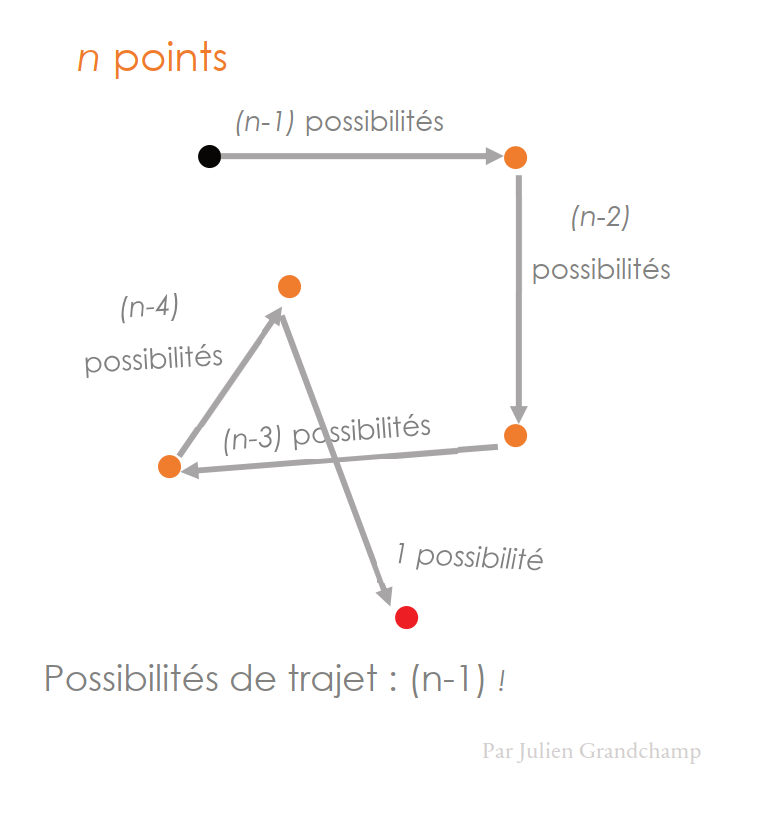
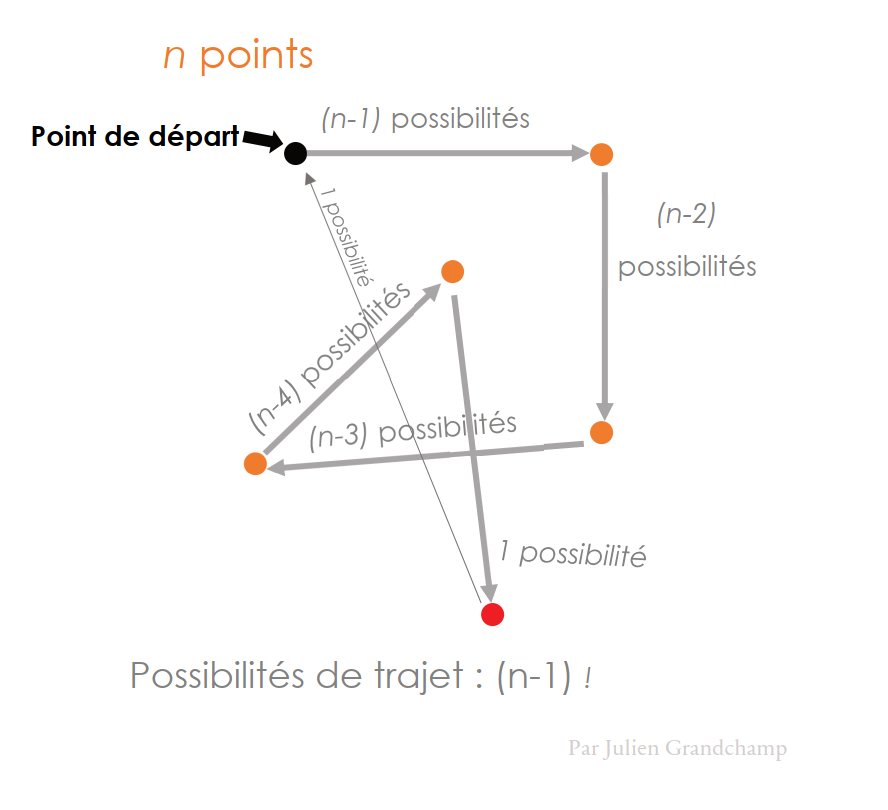
Séparation du chapitre 2, amélioration des schémas

diff --git a/source/chapitre-03.md b/source/chapitre-03.md
@@ -1,7 +1,144 @@
-# Méthodes de résolution approchée
+# Méthode de résolution exacte par la PSE
 
-## Algorithme de Prim (du plus proche voisin)
+## Rappel du problème
+William Rowan Hamilton posa l’une des première fois le problème du voyageur de commerce dès 1859 avec l’énoncé suivant : 
 
-## Algorithme de Christofides ?
+> « Un voyageur de commerce doit visiter une et une seule fois un nombre fini de villes et revenir à son point d’origine. Trouvez l’ordre de visite des villes qui minimise la distance totale parcourue par le voyageur ».
 
-## Algorithme gloutons (méthode par insertion)
+## Introduction
+Cherchons à présent une méthode de résolution exacte un peu moins naïve et plus efficace. Pour cela, nous allons utiliser la **Procédure par Séparation et Évaluation**, abrégée par les initiales **PSE** et nommé **branch & bound** en anglais. C’est une méthode qui repose sur le parcours d’un arbre de recherche auquel on va couper la simulation dans certaines branches lorsqu’il est évident que ce n’est pas le chemin optimal. 
+
+## Notions de base
+Avant cela, il est important de définir certains termes qui vont avoir leur importance dans l’application de cette méthode :
+1.	Un **arbre de recherche** est un schéma représentant toutes les solutions possibles sous la forme d’embranchements. Un exemple de cet arbre se situe plus bas.
+2.	Pour cette méthode, il est aussi important de définir les bornes inférieures et supérieures.
+
+    Une **borne inférieure** est une valeur qui est égale ou inférieure à la valeur de la meilleure solution possible. Dans le cas présent, il suffit pour l’obtenir d’additionner au trajet déjà effectué le poids des $N$ distances les plus proches entre deux villes. Même si cette solution a une grande probabilité de ne pas être réalisable, la valeur de la solution optimale ne pourra pas être plus petite que la borne inférieure. 
+
+    La **borne supérieure**, quant à elle, est une limite qu'aucune solution optimale ne pourra jamais dépasser. Dans ce cas, cette valeur est un trajet quelconque, car si on prend la mauvaise solution on obtient une valeur supérieure à celle qu’on recherche, et dans le cas généralement extrêmement rare où l’on obtient la bonne réponse, la bonne réponse n’est pas en-dessous de la borne supérieure choisie. Pour obtenir des résultats moins variables, on peut aussi utiliser des algorithmes approchés se basant sur des approximations.
+
+
+## Formation d'un arbre de recherche
+Posons la situation suivante: 
+
+
+```{figure} figures/schema_4.png
+---
+align: center
+width: 50%
+---
+*Admettons que nous souhaitons traverser de la manière la plus optimale possible les quatre villes affichées.*
+```
+
+
+### Etape par étape
+Pour commencer à créer un arbre de recherche, nous devons tout d'abord définir une ville de départ.
+
+
+```{figure} figures/schema_4a.png
+---
+align: center
+width: 10%
+---
+*Nous définissons arbitrairement le noeud initial, car cela n'influence pas la longueur du trajet.*
+```
+
+
+Nous appelons cette ville le **nœud initial**. Ensuite, il faut explorer tous les trajets possibles. Pour cela, nous dessinons l'arbre de la manière suivante:
+
+
+```{figure} figures/schema_4b.png
+---
+align: center
+width: 40%
+---
+*Sont affichées les destinations restantes possibles.*
+```
+
+
+Cela veut dire qu'à partir de la ville $1$, nous pouvons nous diriger vers la ville $2$, $3$ ou $4$. À partir de là, pour respecter la consigne du problème du voyageur de commerce, nous pouvons uniquement nous diriger vers les noeuds($=$ villes) sur lesquelles nous ne sommes pas déjà passés. Ainsi:
+
+
+```{figure} figures/schema_4c.png
+---
+align: center
+width: 50%
+---
+*Nous continuons à procéder de la même manière pour chaque noeud.*
+```
+
+
+Nous poursuivons le même processus jusqu'à ce que nous ayons visité chacune des villes. Nous obtenons enfin:
+
+
+```{figure} figures/schema_4d.png
+---
+align: center
+width: 50%
+---
+*Arbre de recherche complété.*
+```
+
+
+Afin de respecter les consignes du problème de voyageur de commerce, il est nécessaire de prendre encore en compte le trajet du retour afin d'avoir comme point d'arrivée le noeud initial.
+
+### En résumé
+Pour conclure, nous pouvons résumer l'arbre de la manière suivante:
+
+Nous avons les villes $1$, $2$, $3$ et $4$. Nous partons d'une ville, définie provisoirement par $1$ (la longueur d'un trajet est aucunement influencée par le point de départ), que nous nommons le **nœud initial**. Nous avons alors trois possibilités de trajet, menant chacun à une des trois trois villes qui n'ont pas été visitée. Ces possibilités constituent les trois embranchements initiaux de l’arbre. Chacun des embranchements se sépare à son tour en deux embranchements pour les deux villes restantes (donc non-visitée), formant des nœuds possédant à nouveau des embranchements jusqu’à ce que cela ne soit plus possible. 
+
+
+```{figure} figures/schema_5.png
+---
+align: center
+width: 80%
+---
+*Voici à quoi ressemble un arbre de recherche fini.*
+```
+
+
+## Réaliser la PSE
+À présent que cet arbre de recherche est formé et compris, il nous faut trouver le trajet optimal. C'est là que la PSE intervient.
+
+### Etapes à réaliser
+Le principe de la PSE est de couper l’exploration de l’arbre à la hauteur de certains nœuds afin de réduire la quantité nécessaire de calculs pour trouver la réponse. Pour savoir quand couper la simulation, nous procédons de la manière suivante :
+1. Calculer la borne supérieure en suivant un chemin au hasard ou par un algorithme approché. Cette borne est fixe, mais peut toutefois être actualisée lorsqu'un trajet plus court que ladite borne a été décelé.
+2. Explorer toutes les options pour le prochain embranchement, en calculant la borne inférieure pour chacune de ces options. Pour cela, on rajoute à la distance déjà parcourue les $x$ distances manquantes les plus courtes de l'embranchement.
+3. Couper les embranchements dont la borne inférieure est supérieure ou égale à la borne supérieure.
+4. Répéter les étapes 2, 3 et 4 jusqu'à ce que tous les embranchements soient complétés.
+5. Trouver le chemin le plus court parmi les configurations restantes.
+
+Cette méthode permet ainsi d'augmenter la rapidité des calculs, car permet de couper les branches inutiles à explorer. Cependant, ce n'est pas une méthode sufisamment efficace pour permettre de calculer le trajet optimal comportant le passage au travers d'un grand nombre de villes.
+
+### Exemple
+
+#### Situation initiale
+Prenons les 3 villes suivantes ainsi que la distance les séparant:
+
+
+```{figure} figures/schema_6.png
+---
+align: center
+width: 70%
+---
+*Les points oranges représentes les villes à travers lesquels nous souhaitons passer.*
+```
+
+#### Création de l'arbre de recherche
+
+On peut alors constuire l'arbre de recherche suivant:
+
+
+```{figure} figures/schema_7.png
+---
+align: center
+width: 60%
+---
+*L'arbre de recherche correspondant à la situation ci-dessus posée.*
+```
+
+
+Dans cette notation, les chiffres en gras représentent la distance (souvent nommé "coût") entre deux noeuds. À partir de là, nous pouvons suivre la procédure décrite plus haut.
+
+#### Borne supérieure
+Il faut tout d'abord calculer la borne supérieure. Pour Cela,

diff --git a/source/chapitre-02.md b/source/chapitre-02.md
@@ -1,4 +1,4 @@
-# Résolution exacte
+# Résolution exacte naïve
 
 ## Rappel du problème
 William Rowan Hamilton posa l’une des première fois le problème du voyageur de commerce dès 1859 avec l’énoncé suivant : 
@@ -24,7 +24,7 @@ width: 50%
 
 
 2.	Il existe alors $n!$ chemins possibles, car on ne peut passer qu’une seule fois dans chaque ville. 
-3.	Le point de départ n’influençant pas la longueur totale du trajet, on se retrouve avec $(n-1)!$ chemins différents. 
+3.	Le point de départ n’influençant pas la longueur totale du trajet, on se retrouve avec $(n-1)!$ chemins différents. À noter que le trajet consistant à retourner au point de départ étant unique et obligatoire, nous ne le prenons pas en compte en tant que possibilité de chemin ici.
 
 
 ```{figure} figures/schema_2.png
@@ -56,132 +56,3 @@ Pour illustrer cela par un autre exemple, admettons qu’un ordinateur est capab
 
 
 
-## Procédure par Séparation et Évaluation (PSE)
-Cherchons à présent une méthode de résolution exacte un peu moins naïve et plus efficace. Pour cela, nous allons utiliser la **Procédure par Séparation et Évaluation**, abrégée par les initiales **PSE**. C’est une méthode qui repose sur le parcours d’un arbre de recherche auquel on va couper la simulation dans certaines branches lorsqu’il est évident que ce n’est pas le chemin optimal. 
-
-### Différentes définitions
-Avant cela, il est important de définir certains termes qui vont avoir leur importance dans l’application de cette méthode :
-1.	Un **arbre de recherche** est un schéma représentant toutes les solutions possibles sous la forme d’embranchements. Un exemple de cet arbre se situe plus bas.
-2.	Pour cette méthode, il est aussi important de définir les bornes inférieures et supérieures.
-
-    Une **borne inférieure** est une valeur qui est égale ou inférieure à la valeur de la meilleure solution possible. Dans le cas présent, il suffit pour l’obtenir d’additionner au trajet déjà effectué le poids des $N$ distances les plus proches entre deux villes. Même si cette solution a une grande probabilité de ne pas être réalisable, la valeur de la solution optimale ne pourra pas être plus petite que la borne inférieure. 
-
-    La **borne supérieure**, quant à elle, est une limite qu'aucune solution optimale ne pourra jamais dépasser. Dans ce cas, cette valeur est un trajet quelconque, car si on prend la mauvaise solution on obtient une valeur supérieure à celle qu’on recherche, et dans le cas généralement extrêmement rare où l’on obtient la bonne réponse, la bonne réponse n’est pas en-dessous de la borne supérieure choisie. Pour obtenir des résultats moins variables, on peut aussi utiliser des algorithmes approchés se basant sur des approximations.
-
-
-### Formation d'un arbre de recherche
-Posons la situation suivante: 
-
-
-```{figure} figures/schema_4.png
----
-align: center
-width: 50%
----
-*Admettons que nous souhaitons traverser de la manière la plus optimale possible les quatre villes affichées.*
-```
-
-
-#### Etape par étape
-Pour commencer à créer un arbre de recherche, nous devons tout d'abord définir une ville de départ.
-
-
-```{figure} figures/schema_4a.png
----
-align: center
-width: 10%
----
-*Nous définissons arbitrairement le noeud initial, car cela n'influence pas la longueur du trajet.*
-```
-
-
-Nous appelons cette ville le **nœud initial**. Ensuite, il faut explorer tous les trajets possibles. Pour cela, nous dessinons l'arbre de la manière suivante:
-
-
-```{figure} figures/schema_4b.png
----
-align: center
-width: 40%
----
-*Sont affichées les destinations restantes possibles.*
-```
-
-
-Cela veut dire qu'à partir de la ville $1$, nous pouvons nous diriger vers la ville $2$, $3$ ou $4$. À partir de là, pour respecter la consigne du problème du voyageur de commerce, nous pouvons uniquement nous diriger vers les noeuds($=$ villes) sur lesquelles nous ne sommes pas déjà passés. Ainsi:
-
-
-```{figure} figures/schema_4c.png
----
-align: center
-width: 50%
----
-*Nous continuons à procéder de la même manière pour chaque noeud.*
-```
-
-
-Nous poursuivons le même processus jusqu'à ce que nous ayons visité chacune des villes. Nous obtenons enfin:
-
-
-```{figure} figures/schema_4d.png
----
-align: center
-width: 50%
----
-*Arbre de recherche complété.*
-```
-
-
-#### En résumé
-Pour conclure, nous pouvons résumer l'arbre de la manière suivante:
-
-Nous avons les villes $1$, $2$, $3$ et $4$. Nous partons d'une ville, définie provisoirement par $1$ (la longueur d'un trajet est aucunement influencée par le point de départ), que nous nommons le **nœud initial**. Nous avons alors trois possibilités de trajet, menant chacun à une des trois trois villes qui n'ont pas été visitée. Ces possibilités constituent les trois embranchements initiaux de l’arbre. Chacun des embranchements se sépare à son tour en deux embranchements pour les deux villes restantes (donc non-visitée), formant des nœuds possédant à nouveau des embranchements jusqu’à ce que cela ne soit plus possible. 
-
-
-```{figure} figures/schema_5.png
----
-align: center
-width: 80%
----
-*Voici à quoi ressemble un arbre de recherche fini.*
-```
-
-
-### Réaliser la PSE
-À présent que cet arbre de recherche est formé et compris, il nous faut trouver le trajet optimal. C'est là que la PSE intervient.
-
-#### Etapes à réaliser
-Le principe de la PSE est de couper l’exploration de l’arbre à la hauteur de certains nœuds afin de réduire la quantité nécessaire de calculs pour trouver la réponse. Pour savoir quand couper la simulation, nous procédons de la manière suivante :
-1. Calculer la borne supérieure en suivant un chemin au hasard ou par un algorithme approché. Cette borne est fixe, mais peut toutefois être actualisée lorsqu'un trajet plus court que ladite borne a été décelé.
-2. Explorer toutes les options pour le prochain embranchement, en calculant la borne inférieure pour chacune de ces options. Pour cela, on rajoute à la distance déjà parcourue les $x$ distances manquantes les plus courtes de l'embranchement.
-3. Couper les embranchements dont la borne inférieure est supérieure ou égale à la borne supérieure.
-4. Répéter les étapes 2, 3 et 4 jusqu'à ce que tous les embranchements soient complétés.
-5. Trouver le chemin le plus court parmi les configurations restantes.
-
-Cette méthode permet ainsi d'augmenter la rapidité des calculs, car permet de couper les branches inutiles à explorer. Cependant, ce n'est pas une méthode sufisamment efficace pour permettre de calculer le trajet optimal comportant le passage au travers d'un grand nombre de villes.
-
-#### Exemple
-Prenons les 3 villes suivantes ainsi que la distance les séparant:
-
-
-```{figure} figures/schema_6.png
----
-align: center
-width: 70%
----
-*Les points oranges représentes les villes à travers lesquels nous souhaitons passer.*
-```
-
-
-On peut alors constuire l'arbre de recherche suivant:
-
-
-```{figure} figures/schema_7.png
----
-align: center
-width: 60%
----
-*L'arbre de recherche correspondant à la situation ci-dessus posée.*
-```
-
-
-Dans cette notation, les chiffres en gras représentent la distance (souvent nommé "coût") entre deux noeuds. À partir de là,

diff --git a/source/index.rst b/source/index.rst
@@ -8,7 +8,7 @@ Problème du voyageur de commerce
 =================================
 
 ..  toctree::
-    :maxdepth: 3
+    :maxdepth: 2
     :caption: Table des matières
 
     introduction.rst

diff --git a/source/chapitre-04.md b/source/chapitre-04.md
@@ -1,0 +1,7 @@
+# Méthodes de résolution approchée
+
+## Algorithme de Prim (du plus proche voisin)
+
+## Algorithme de Christofides ?
+
+## Algorithme gloutons (méthode par insertion)
